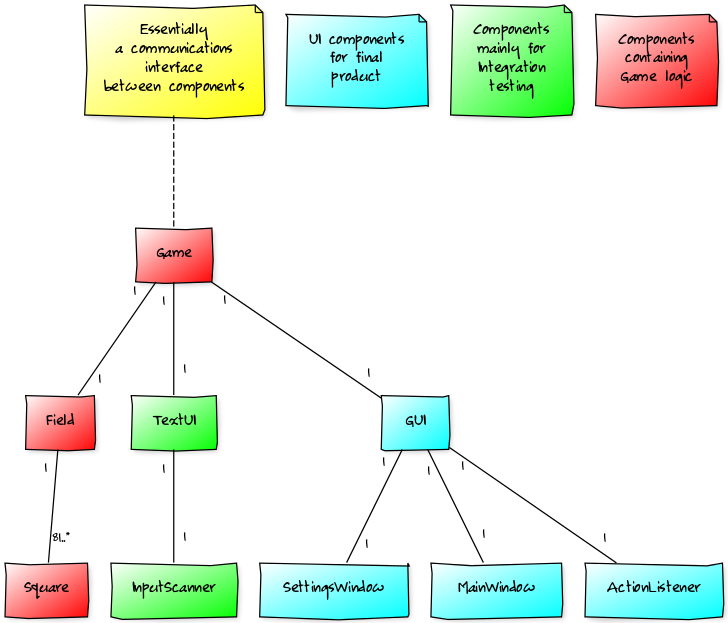
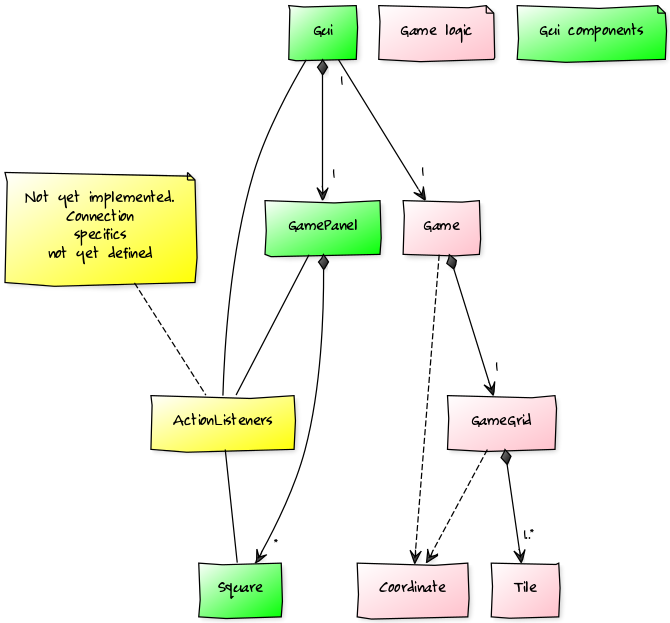
Updated class diagrams. Removed text UI

diff --git a/Minesweeper_click/src/main/java/minesweeper/main/Main.java b/Minesweeper_click/src/main/java/minesweeper/main/Main.java
@@ -1,7 +1,6 @@
 package minesweeper.main;
 
 import minesweeper.gui.Gui;
-import minesweeper.textui.TextGame;
 import javax.swing.SwingUtilities;
 
 public class Main {
@@ -10,10 +9,6 @@ public class Main {
         if (args.length == 0) {
             Game g = new Game(30, 16, 99);
             SwingUtilities.invokeLater(new Gui(g));
-        } else {
-            Game g = new Game(16, 16, 40);
-            TextGame tg = new TextGame(g);
-            tg.run();
         }
     }
 }

diff --git a/Minesweeper_click/src/main/java/minesweeper/logic/Tile.java b/Minesweeper_click/src/main/java/minesweeper/logic/Tile.java
@@ -39,6 +39,4 @@ public class Tile {
         }
         return "#";
     }
-    
-    
 }
